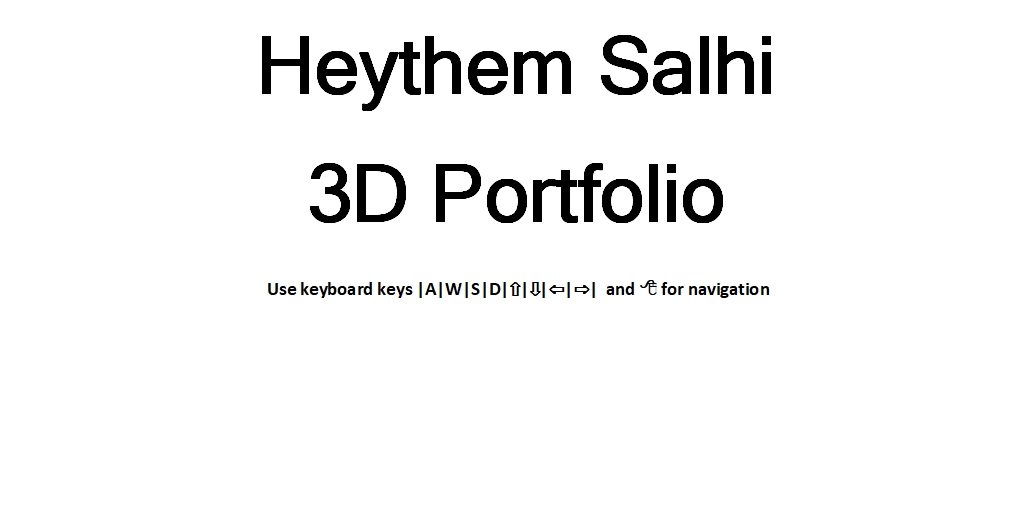
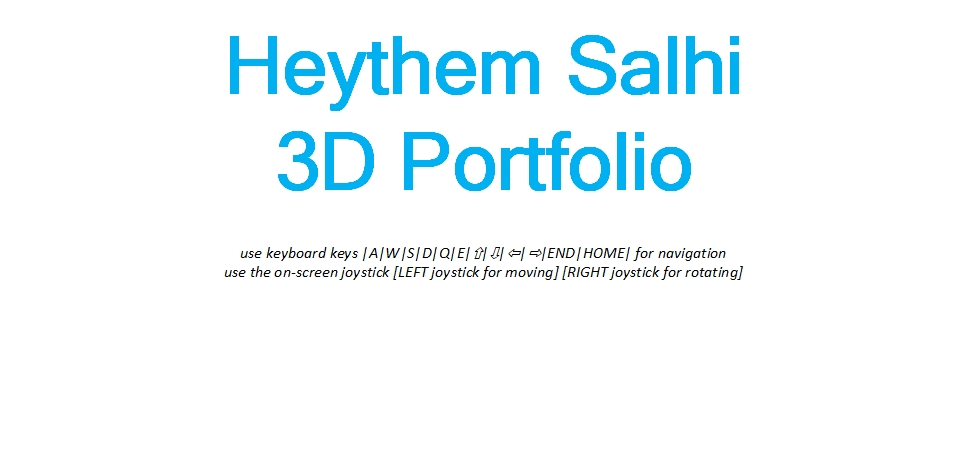
hi2

Changed region(s): [[0.2172, 0.0622, 0.7756, 0.2489], [0.2792, 0.28, 0.7135, 0.4356], [0.2172, 0.5289, 0.7756, 0.6222]]

diff --git a/css/ui.css b/css/ui.css
@@ -1,90 +1,90 @@
 /* #panelInfoControls { */
-    /* position: absolute; */
-    /* left: 90px; */
-    /* top: 0px; */
-    /* background-color: rgba(17, 17, 17, 0.66); */
-    /* color: #00f1ff; */
-    /* font-size: 10px; */
-    /* font-weight: bold; */
-    /* font-family: sans-serif; */
-    /* padding: 0px; */
-    /* border: solid 3px #000000; */
+/* position: absolute; */
+/* left: 90px; */
+/* top: 0px; */
+/* background-color: rgba(17, 17, 17, 0.66); */
+/* color: #00f1ff; */
+/* font-size: 10px; */
+/* font-weight: bold; */
+/* font-family: sans-serif; */
+/* padding: 0px; */
+/* border: solid 3px #000000; */
 /* } */
 
 /* LOADING PAGE */
 #lyr_loading {
-	position:absolute;
-	top:0px;
-	left:0px;
-	width:100%;
-	height:100%;
-	overflow:hidden;
-	z-index:100000;
-	display: block;
-	padding:0px;
-	margin:0px;
+    position: absolute;
+    top: 0px;
+    left: 0px;
+    width: 100%;
+    height: 100%;
+    overflow: hidden;
+    z-index: 100000;
+    display: block;
+    padding: 0px;
+    margin: 0px;
 }
 
 #lyr_loading_background {
-	position:absolute;
-	top:0px;
-	left:0px;
-	width:100%;
-	height:100%;
-	overflow:hidden;
-	background: url('../data/graphics/ui/loading/default.jpg') no-repeat center center fixed;
-	background-size: cover;
-	-webkit-filter: grayscale(100%);
-	filter: grayscale(100%);
-	transition:all ease-in-out 0.3s;
+    position: absolute;
+    top: 0px;
+    left: 0px;
+    width: 100%;
+    height: 100%;
+    overflow: hidden;
+    background: url('../data/graphics/ui/loading/default.jpg') no-repeat center center fixed;
+    background-size: cover;
+    -webkit-filter: grayscale(100%);
+    filter: grayscale(100%);
+    transition: all ease-in-out 0.3s;
 }
 
 #lyr_loading_logo {
     bottom: 90px;
-	position: absolute;
-	left: calc(50% - 150px);
+    position: absolute;
+    left: calc(50% - 75px);
 }
 
-.ui_logo{
+.ui_logo {
     background: url('../data/graphics/logo_big.png') no-repeat;
     background-size: contain;
-    width: 300px;
-    height: 300px;
+    width: 150px;
+    height: 150px;
 }
 
 .ui_loadingbar {
     background: url('../data/graphics/ui/misc/loading_bar_frame.png') no-repeat;
-    position:absolute;
-    width:701px;
-    height:52px;
-    bottom:30px;
+    position: absolute;
+    width: 701px;
+    height: 52px;
+    bottom: 30px;
     left: calc(50% - 350px);
 }
 
 .ui_loadingbar .ui_barfill {
     background: url('../data/graphics/ui/misc/loading_bar_fill.png') no-repeat;
-    position:absolute;
-    top:15px;
-    left:0px;
-    width:680px;
-    max-width:680px;
-    height:22px;
+    position: absolute;
+    top: 15px;
+    left: 0px;
+    width: 680px;
+    max-width: 680px;
+    height: 22px;
 }
 
 .ui_loadingbar .ui_text {
 
-    position:absolute;
-    top:18px;
-    left:16px;
-    width:670px;
-    max-width:670px;
-    height:16px;
-    overflow:hidden;
-    text-align:center;
-    font-size:10px;
-    padding:1px;
+    position: absolute;
+    top: 18px;
+    left: 16px;
+    width: 670px;
+    max-width: 670px;
+    height: 16px;
+    overflow: hidden;
+    text-align: center;
+    font-size: 10px;
+    padding: 1px;
     text-transform: uppercase;
-    color:#fff;
+    color: #fff;
 }
 
 /* window popup */
@@ -92,7 +92,7 @@
     position: absolute;
     bottom: 15px;
     left: 245px;
-    right:245px;
+    right: 245px;
     height: 115px;
     border: 1px;
     background: rgba(0, 89, 255, 0.5);
@@ -102,14 +102,14 @@
     background: -o-linear-gradient(left, rgba(0, 89, 255, 0.5) 6%, rgba(26, 8, 196, 0.568) 13%, rgba(24, 11, 100, 0.5) 44%, rgba(21, 15, 80, 0.5) 75%, rgba(15, 5, 44, 0.5) 81%);
     background: -ms-linear-gradient(left, rgba(0, 89, 255, 0.5) 6%, rgba(26, 8, 196, 0.568) 13%, rgba(24, 11, 100, 0.5) 44%, rgba(21, 15, 80, 0.5) 75%, rgba(15, 5, 44, 0.5) 81%);
     background: linear-gradient(to right, rgba(0, 89, 255, 0.5) 6%, rgba(26, 8, 196, 0.568) 13%, rgba(24, 11, 100, 0.5) 44%, rgba(21, 15, 80, 0.5) 75%, rgba(15, 5, 44, 0.5) 81%);
-    filter: progid:DXImageTransform.Microsoft.gradient( startColorstr='#4f0d1c', endColorstr='#570316', GradientType=1 );
+    filter: progid:DXImageTransform.Microsoft.gradient(startColorstr='#4f0d1c', endColorstr='#570316', GradientType=1);
     border: 1px solid;
     border-color: #210109;
     box-shadow: inset 2px 2px 4px rgba(120, 120, 120, .4), inset -3px -3px 3px;
 }
 
 .ui_time_window .portrait {
-    background-color:#11100f;
+    background-color: #11100f;
     background-size: cover;
     background-repeat: no-repeat;
     width: 90px;
@@ -124,14 +124,18 @@
 .text_time_window {
     color: #f7f1e7;
     padding: 10px 10px 10px 120px;
-   
+
 }
 
 #lyr_pausegame {
-    position:absolute;top:0px;left:0px;width:100%;height:100%;
-    background:rgb(0,0,0);
-    opacity:0.6;
-	z-index: 1;
+    position: absolute;
+    top: 0px;
+    left: 0px;
+    width: 100%;
+    height: 100%;
+    background: rgb(0, 0, 0);
+    opacity: 0.6;
+    z-index: 1;
 }
 
 
@@ -144,12 +148,12 @@
     height: 150px;
     border-radius: 50%;
     border: 10px solid #ffffff;
-	background-color:#cccccc;
+    background-color: #cccccc;
     z-index: 2;
 }
 
 .ui_button_play:before {
-	content: '';
+    content: '';
     position: absolute;
     left: 50px;
     top: 10px;

diff --git a/index.html b/index.html
@@ -17,11 +17,6 @@
 			overflow: hidden;
 		}
 
-
-		.screen {
-			position: relative;
-		}
-
 		.innerRightdiv {
 			position: fixed;
 			bottom: 0;
@@ -98,90 +93,63 @@
 
 			$RG.PersonMoveFW = function () {
 				//Move the user ForWard 
-				console.log('Move the user ForWard');
 				$WORLD.controls.onMoveFW();
 			};
 			$RG.PersonMoveBW = function () {
-				console.log('Move the user BackWard');
 				$WORLD.controls.onMoveBW();
 			};
 			$RG.PersonMoveRT = function () {
-				console.log('Move the user RighT');
 				$WORLD.controls.onMoveRT();
 			};
 			$RG.PersonMoveLF = function () {
-				console.log('Move the user LeFt');
 				$WORLD.controls.onMoveLF();
 			};
 			$RG.PersonStopMove = function () {
-				console.log('Stop');
 				$WORLD.controls.StopMove();
 			};
 
 
 			$RG.PersonMoveFwRt = function () {
-				console.log('onMoveFwRt');
 				$WORLD.controls.onMoveFwRt();
 			};
 			$RG.PersonMoveFwLf = function () {
-				console.log('onMoveFwLf');
 				$WORLD.controls.onMoveFwLf();
 			};
 			$RG.PersonMoveBwRt = function () {
-				console.log('onMoveBwRt');
 				$WORLD.controls.onMoveBwRt();
 			};
 			$RG.PersonMoveBwLf = function () {
-				console.log('onMoveBwLf');
 				$WORLD.controls.onMoveBwLf();
 			};
 
 
 			$RG.PersonStopRotate = function () {
-				console.log('PersonStopRotate');
 				$WORLD.controls.onRotateStopRotate();
 			};
 			$RG.PersonRotateUP = function () {
-				console.log('PersonRotateUP');
 				$WORLD.controls.onRotateUP();
 			};
 			$RG.PersonRotateDN = function () {
-				console.log('PersonRotateDN');
 				$WORLD.controls.onRotateDN();
 			};
 			$RG.PersonRotateRT = function () {
-				console.log('PersonRotateRT');
 				$WORLD.controls.onRotateRT();
 			};
 			$RG.PersonRotateLF = function () {
-				console.log('PersonRotateLF');
 				$WORLD.controls.onRotateLF();
 			};
 			$RG.PersonRotateUpRt = function () {
-				console.log('PersonRotateUpRt');
 				$WORLD.controls.onRotateUpRt();
 			};
 			$RG.PersonRotateUpLf = function () {
-				console.log('PersonRotateUpLf');
 				$WORLD.controls.onRotateUpLf();
 			};
 			$RG.PersonRotateDnRt = function () {
-				console.log('PersonRotateDnRt');
 				$WORLD.controls.onRotateDnRt();
 			};
 			$RG.PersonRotateDnLf = function () {
-				console.log('PersonRotateDnLf');
 				$WORLD.controls.onRotateDnLf();
 			};
-
-
-
-
-
-
-
-
-
 
 			$RG.baseDirectory = "./";
 			$UI.drawloading();

diff --git a/core/controls/joy.js b/core/controls/joy.js
@@ -36,11 +36,11 @@ var JoyStick = (function (container, parameters, callback) {
     var title = (typeof parameters.title === "undefined" ? "joystick" : parameters.title),
         width = (typeof parameters.width === "undefined" ? 0 : parameters.width),
         height = (typeof parameters.height === "undefined" ? 0 : parameters.height),
-        internalFillColor = (typeof parameters.internalFillColor === "undefined" ? "#00AAF0" : parameters.internalFillColor),
-        internalLineWidth = (typeof parameters.internalLineWidth === "undefined" ? 3 : parameters.internalLineWidth),
-        internalStrokeColor = (typeof parameters.internalStrokeColor === "undefined" ? "#00FF00" : parameters.internalStrokeColor),
+        internalFillColor = (typeof parameters.internalFillColor === "undefined" ? "#d3dee0" : parameters.internalFillColor),
+        internalLineWidth = (typeof parameters.internalLineWidth === "undefined" ? 5 : parameters.internalLineWidth),
+        internalStrokeColor = (typeof parameters.internalStrokeColor === "undefined" ? "#ff5e00" : parameters.internalStrokeColor),
         externalLineWidth = (typeof parameters.externalLineWidth === "undefined" ? 4 : parameters.externalLineWidth),
-        externalStrokeColor = (typeof parameters.externalStrokeColor === "undefined" ? "#008FF0" : parameters.externalStrokeColor),
+        externalStrokeColor = (typeof parameters.externalStrokeColor === "undefined" ? "#b5b9ba" : parameters.externalStrokeColor),
         autoReturnToCenter = (typeof parameters.autoReturnToCenter === "undefined" ? true : parameters.autoReturnToCenter);
 
     callback = callback || function (StickStatus) { };
